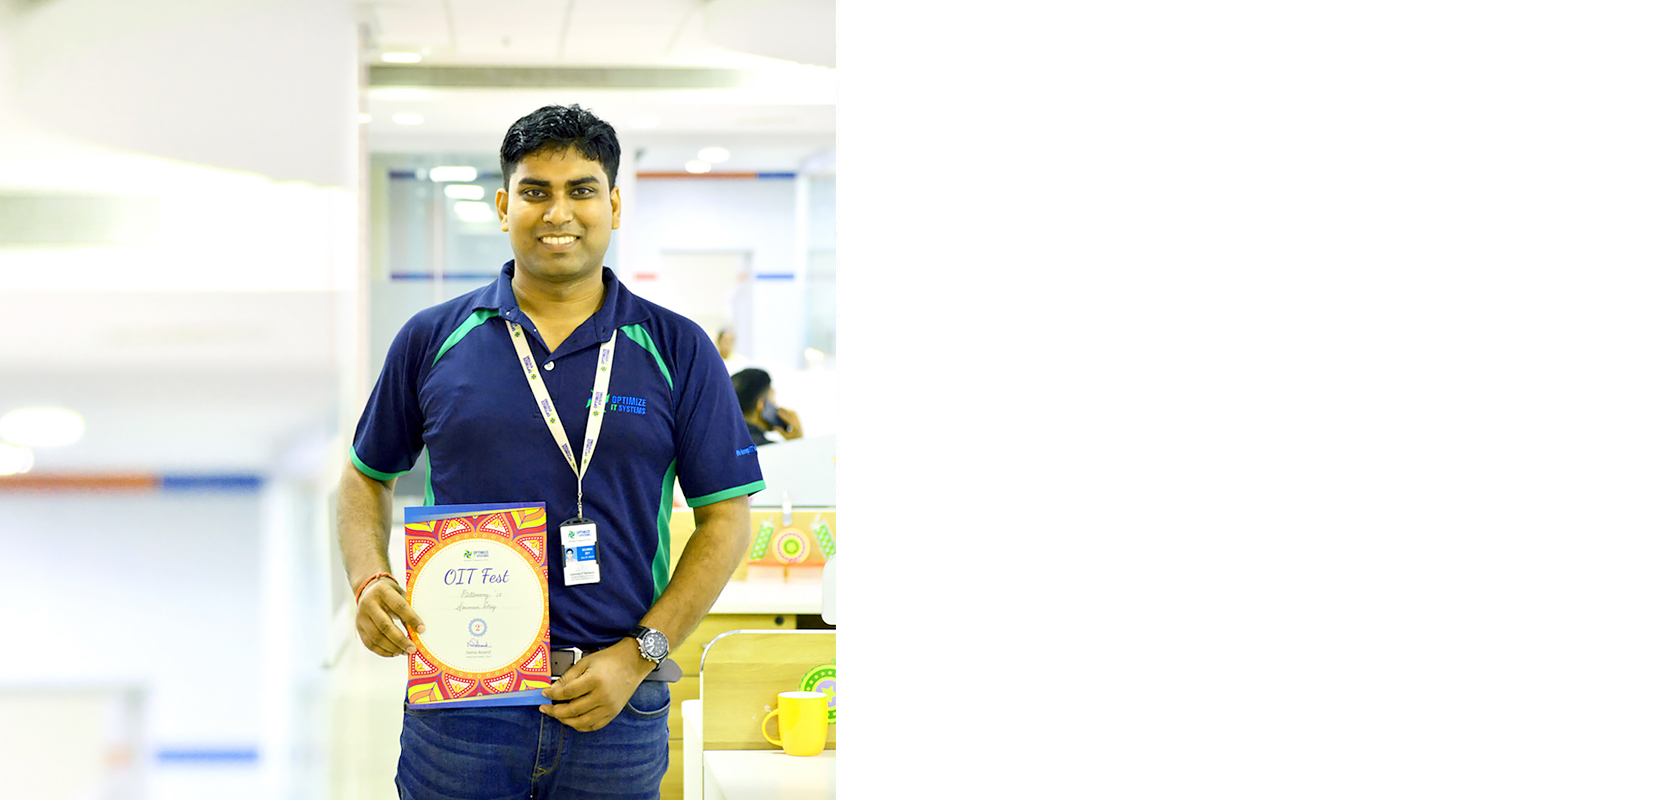
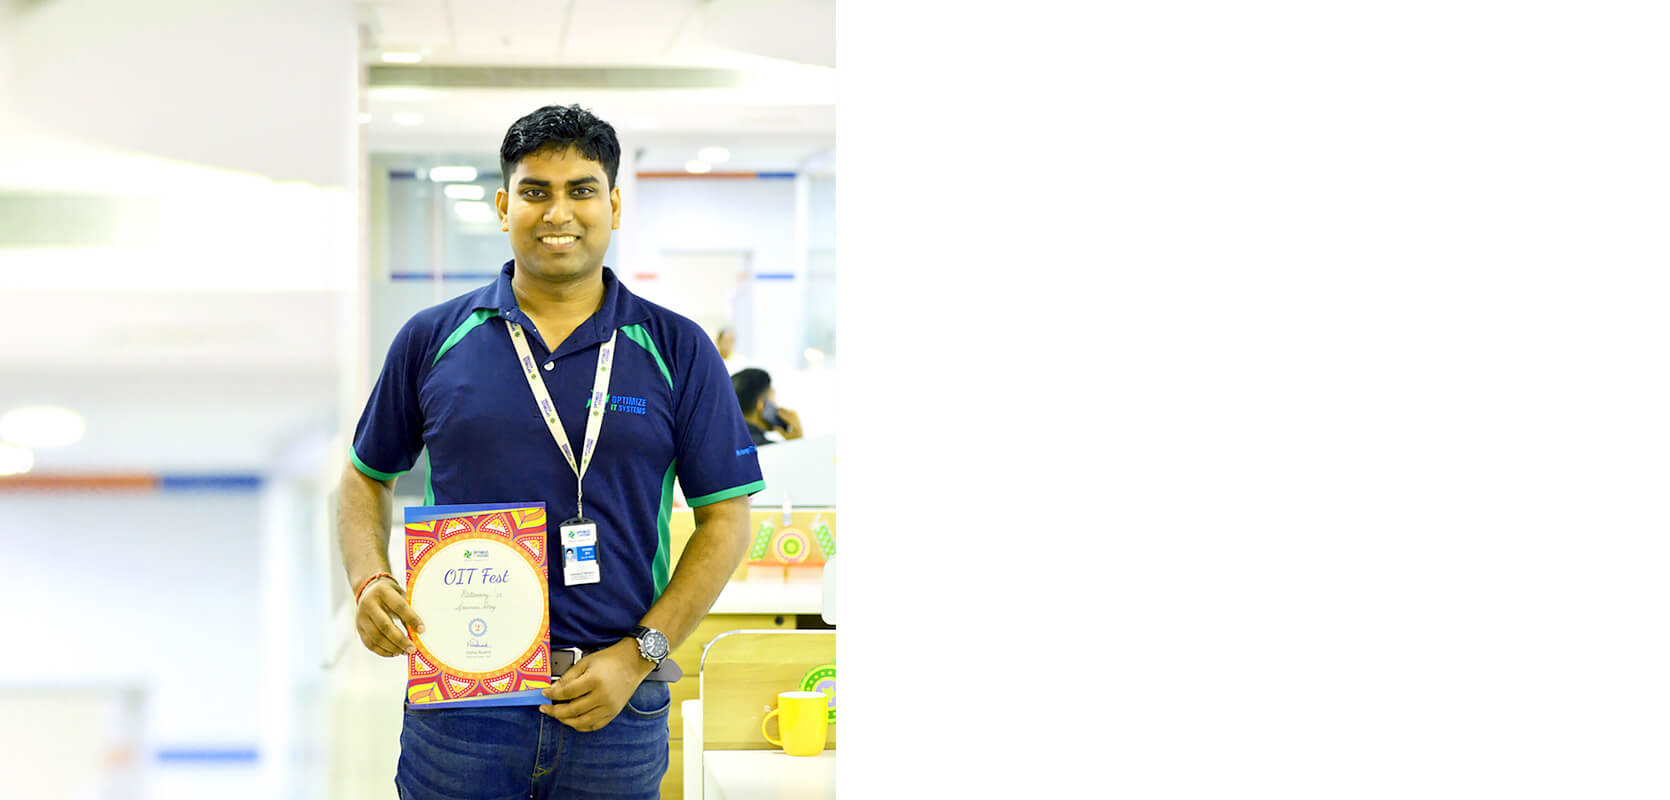
update

diff --git a/index.html b/index.html
@@ -110,15 +110,14 @@
                     </div>
                 </div>
             </div>
-            <div
-                class="owl-slider-full full-screen owl-carousel owl-theme light-pagination square-pagination dark-pagination-without-next-prev-arrow main-slider">
+
+            <div class="owl-slider-full full-screen owl-carousel owl-theme light-pagination square-pagination dark-pagination-without-next-prev-arrow main-slider">
                 <!-- slider item -->
-                <div class="item owl-bg-img full-screen" style="background-image:url('images/personal-img1.jpg');">
-                </div>
+                <div class="item owl-bg-img full-screen" style="background-image:url('images/personal-img1.jpg');"></div>
                 <!-- end slider item -->
+
                 <!-- slider item -->
-                <div class="item owl-bg-img full-screen" style="background-image:url('images/personal-img22.jpg');">
-                </div>
+                <!--<div class="item owl-bg-img full-screen" style="background-image:url('images/personal-img22.jpg');"></div>-->
                 <!-- end slider item -->
             </div>
 
